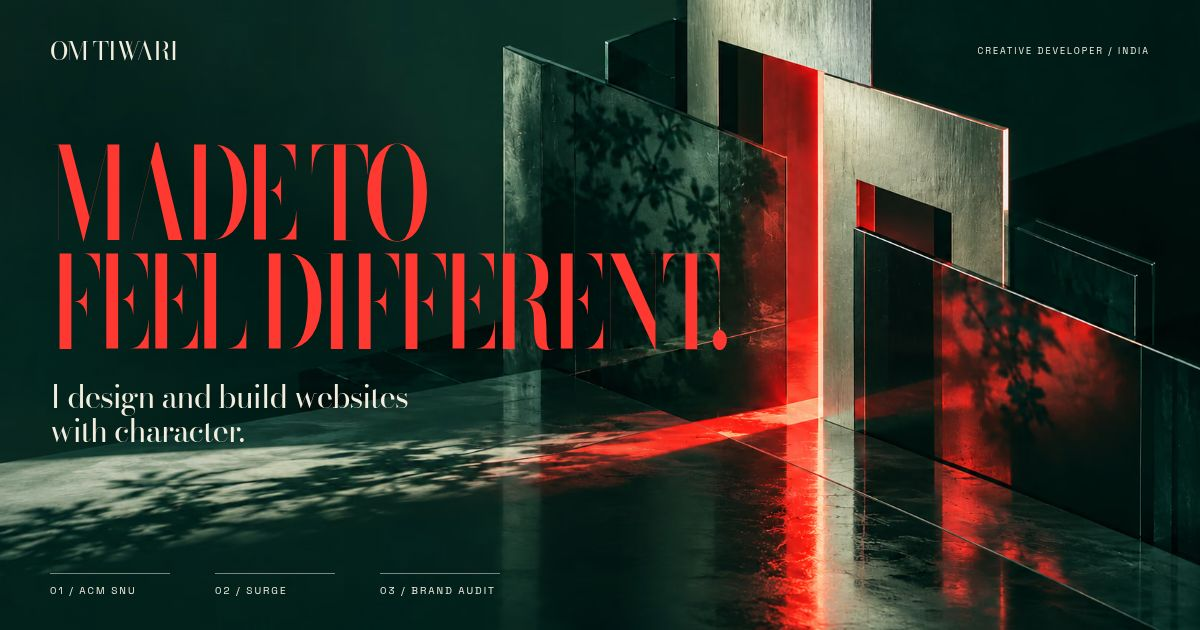
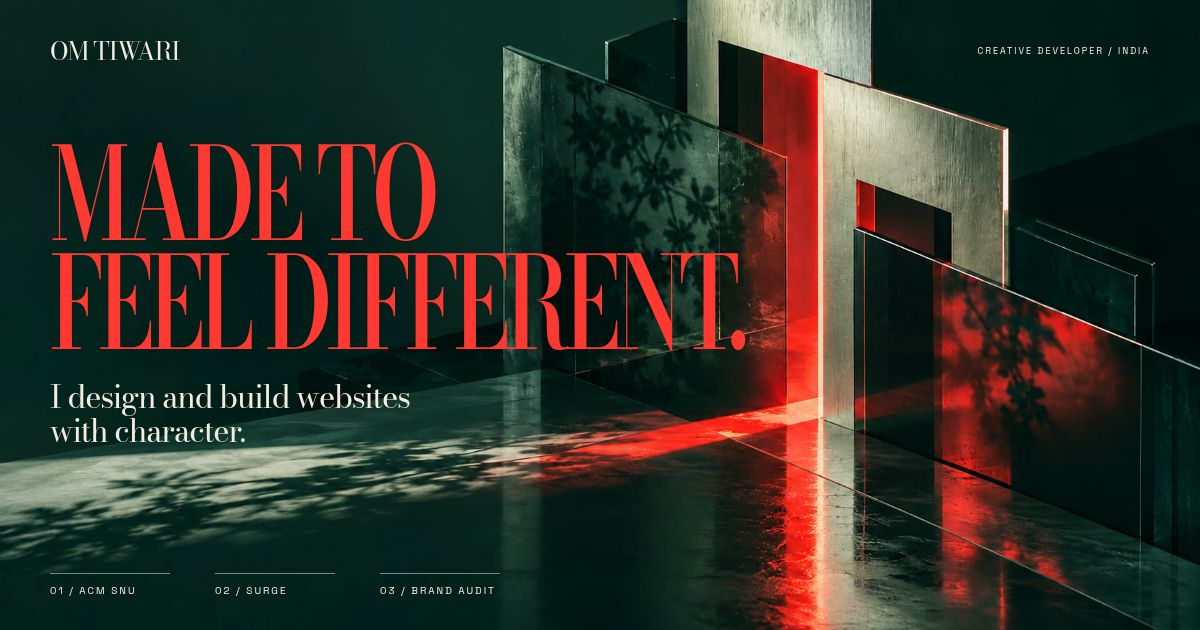
Improve serif legibility and simplify project screenshots

Changed region(s): [[0.0308, 0.2111, 0.6167, 0.573], [0.0617, 0.6032, 0.3392, 0.7238], [0.0617, 0.0603, 0.1542, 0.0905]]

diff --git a/assets/source/green-studio/social-card.html b/assets/source/green-studio/social-card.html
@@ -1,6 +1,6 @@
 <!doctype html>
 <html lang="en"><head><meta charset="utf-8"><meta name="viewport" content="width=device-width, initial-scale=1"><title>Om Tiwari · social card source</title>
 <style>
-@font-face{font-family:Bodoni;src:url('/fonts/bodoni-moda-latin.woff2')}@font-face{font-family:Space;src:url('/fonts/space-grotesk-latin.woff2')}
-*{box-sizing:border-box}html,body{margin:0;width:1200px;height:630px;overflow:hidden}body{color:#f2edde;background:#041b18 url('/media/studio/desktop-1672.avif') center/cover;font-family:Space,Arial,sans-serif}.card{padding:32px 50px;position:relative;height:630px;background:linear-gradient(90deg,#041b1830,transparent 60%)}header{display:flex;align-items:center;justify-content:space-between}.name{font:400 25px Bodoni,Georgia,serif;letter-spacing:-1px}.role{font-size:9px;letter-spacing:2px;text-transform:uppercase}h1{font-family:Bodoni,Georgia,serif;font-weight:600;font-variation-settings:'opsz' 96;font-size:128px;line-height:.85;letter-spacing:-8px;color:#ff3931;text-transform:uppercase;margin:70px 0 22px;width:140%;transform:scaleX(.7);transform-origin:left center}h1 span{display:block}p{font:400 31px/1.1 Bodoni,Georgia,serif;letter-spacing:-1px;margin:0}footer{position:absolute;bottom:33px;left:50px;font-size:10px;letter-spacing:2px;text-transform:uppercase;display:flex;gap:45px}footer span{border-top:1px solid #f2edde80;padding-top:10px;min-width:120px}
+@font-face{font-family:Bodoni;src:url('/fonts/bodoni-moda-latin.woff2');font-weight:400 900}@font-face{font-family:Space;src:url('/fonts/space-grotesk-latin.woff2');font-weight:300 700}
+*{box-sizing:border-box}html,body{margin:0;width:1200px;height:630px;overflow:hidden}body{color:#f2edde;background:#041b18 url('/media/studio/desktop-1672.avif') center/cover;font-family:Space,Arial,sans-serif;font-optical-sizing:none;font-variation-settings:'opsz' 16}.card{padding:32px 50px;position:relative;height:630px;background:linear-gradient(90deg,#041b1830,transparent 60%)}header{display:flex;align-items:center;justify-content:space-between}.name{font:400 25px Bodoni,Georgia,serif;font-optical-sizing:none;font-variation-settings:'opsz' 16;letter-spacing:-1px}.role{font-size:9px;letter-spacing:2px;text-transform:uppercase}h1{font-family:Bodoni,Georgia,serif;font-weight:600;font-optical-sizing:none;font-variation-settings:'opsz' 16;font-size:128px;line-height:.85;letter-spacing:-8px;color:#ff3931;text-transform:uppercase;margin:70px 0 22px;width:140%;transform:scaleX(.7);transform-origin:left center}h1 span{display:block}p{font:400 31px/1.1 Bodoni,Georgia,serif;font-optical-sizing:none;font-variation-settings:'opsz' 16;letter-spacing:-1px;margin:0}footer{position:absolute;bottom:33px;left:50px;font-size:10px;letter-spacing:2px;text-transform:uppercase;display:flex;gap:45px}footer span{border-top:1px solid #f2edde80;padding-top:10px;min-width:120px}
 </style></head><body><div class="card"><header><span class="name">OM TIWARI</span><span class="role">Creative developer / India</span></header><h1><span>Made to</span><span>feel different.</span></h1><p>I design and build websites<br>with character.</p><footer><span>01 / ACM SNU</span><span>02 / SURGE</span><span>03 / BRAND AUDIT</span></footer></div></body></html>

diff --git a/src/components/studio/StudioHero.module.css b/src/components/studio/StudioHero.module.css
@@ -24,14 +24,14 @@
 .headline {
   font-family: "Bodoni Moda", Georgia, serif;
   font-size: clamp(108px, 10.6vw, 235px);
-  font-weight: 600; font-optical-sizing: auto; font-variation-settings: "opsz" 96;
+  font-weight: 600; font-optical-sizing: none; font-variation-settings: "opsz" var(--serif-optical-size);
   letter-spacing: -.065em; line-height: .85; text-transform: uppercase;
   color: #ff3931; width: 142%; transform: scaleX(.7); transform-origin: left center;
 }
 .headline > span { display: block; white-space: nowrap; }
 .headlineLight { position: absolute; inset: 0; color: var(--ivory); pointer-events: none; opacity: var(--light-alpha, 0); clip-path: ellipse(169px 118px at var(--type-x, -300px) var(--type-y, -300px)); }
 .details { margin-top: 25px; }
-.introduction { font: 400 clamp(27px, 2.75vw, 49px)/1.08 "Bodoni Moda", Georgia, serif; letter-spacing: -.045em; max-width: 660px; }
+.introduction { font-family: "Bodoni Moda", Georgia, serif; font-weight: 400; font-size: clamp(27px, 2.75vw, 49px); line-height: 1.08; font-optical-sizing: none; font-variation-settings: "opsz" var(--serif-optical-size); letter-spacing: -.045em; max-width: 660px; }
 .descriptor { text-transform: uppercase; font-size: 11px; letter-spacing: .23em; margin-top: 25px; }
 .cta { display: inline-flex; align-items: center; justify-content: space-between; gap: 50px; min-height: 48px; padding: 12px 20px; border: 1px solid #f2eddea6; margin-top: 25px; font-size: 10px; letter-spacing: .2em; text-transform: uppercase; background: #041b1880; backdrop-filter: blur(4px); transition: color .3s, background .3s; }
 .cta:hover { color: var(--deep); background: var(--ivory); }

diff --git a/src/app/globals.css b/src/app/globals.css
@@ -12,11 +12,13 @@
   --petrol: #082a25; --deep: #041b18; --sage: #a4bfb0; --scarlet: #eb302b; --ivory: #f2edde; --soft-sage: #d8e2d8;
   --background: var(--deep); --surface: var(--petrol); --foreground: var(--ivory);
   --muted: #b7c7bc; --accent: var(--scarlet); --accent-soft: #ff7971;
+  --serif-optical-size: 16;
   --rule: #f2edde35; --gutter: clamp(22px, 4.2vw, 90px); color-scheme: dark;
 }
 * { box-sizing: border-box; }
 html { scroll-behavior: smooth; scroll-padding-top: 30px; }
-body { margin: 0; background: var(--background); color: var(--foreground); font-family: Space Grotesk, Arial, sans-serif; font-size: 16px; line-height: 1.6; -webkit-font-smoothing: antialiased; }
+/* Keep Bodoni's fine strokes legible at every size; its weight axis remains live. */
+body { margin: 0; background: var(--background); color: var(--foreground); font-family: Space Grotesk, Arial, sans-serif; font-size: 16px; line-height: 1.6; font-optical-sizing: none; font-variation-settings: "opsz" var(--serif-optical-size); -webkit-font-smoothing: antialiased; }
 ::selection { background: var(--ivory); color: var(--deep); }
 a { color: inherit; text-decoration: none; }
 a:hover { color: var(--accent-soft); }

diff --git a/src/components/work/Work.module.css b/src/components/work/Work.module.css
@@ -101,35 +101,6 @@
 .media.adobe > img {
   border: none;
 }
-.browserBar {
-  display: flex;
-  align-items: center;
-  justify-content: space-between;
-  background: #f4f2ee;
-  color: #545151;
-  border: 1px solid #0002;
-  padding: 8px 12px;
-  gap: 15px;
-  font-size: 9px;
-  letter-spacing: 0.025em;
-}
-.browserBar > span:first-child {
-  display: flex;
-  gap: 4px;
-}
-.browserBar i {
-  display: block;
-  width: 5px;
-  height: 5px;
-  border-radius: 50%;
-  background: #b7b3af;
-}
-.browserBar > span:last-child {
-  color: #82807d;
-}
-.adobe .browserBar {
-  display: none;
-}
 .mediaCaption {
   display: flex;
   justify-content: space-between;
@@ -402,10 +373,6 @@
     aspect-ratio: var(--media-aspect, 16/10);
     object-fit: contain;
     object-position: center top;
-  }
-  .browserBar {
-    font-size: 7px;
-    padding: 7px;
   }
   .mediaCaption {
     font-size: 7px;

diff --git a/src/components/work/ProjectMedia.tsx b/src/components/work/ProjectMedia.tsx
@@ -26,19 +26,6 @@ export function ProjectMedia({
           } as CSSProperties
         }
       >
-        <div className={styles.browserBar} aria-hidden="true">
-          <span>
-            <i />
-            <i />
-            <i />
-          </span>
-          <span>
-            {project.liveUrl
-              ? new URL(project.liveUrl).host
-              : "audit architecture / process study"}
-          </span>
-          <span>↗</span>
-        </div>
         <Image
           src={project.poster.src}
           alt={project.poster.alt}

diff --git a/src/components/sections/Sections.module.css b/src/components/sections/Sections.module.css
@@ -116,7 +116,7 @@
   line-height: 1;
   padding: 74px 0 65px;
   text-align: center;
-  font-variation-settings: normal;
+  font-variation-settings: "opsz" var(--serif-optical-size);
 }
 .pulseType span {
   color: #dc472d;

diff --git a/docs/VALIDATION.md b/docs/VALIDATION.md
@@ -86,3 +86,15 @@ The previous revision emitted 478.5 KiB of JavaScript in total. Removing the 3D 
 - No slow-network lab run, rendering frame-time benchmark, hidden-tab timing benchmark or field-performance session was completed. The hero's settling loop is bounded and stops offscreen/hidden or when effects are reduced by code design.
 - Real email delivery remains intentionally unconfigured. The shipped contact flow prepares a draft.
 - Real photography, exact Adobe award evidence and a publishing origin remain owner inputs. Their current fallbacks are complete; no hosting or remote source upload was performed.
+
+## 28 October 2026 refinements
+
+- Kept the same Bodoni Moda font and weights, with a shared optical size of 16 and automatic optical sizing disabled. This restores fine stems and crossbars in the hero, supporting copy, section titles, playground and case studies. Hero copy uses font longhands so production CSS optimization cannot reset its optical settings through a shorthand.
+- Removed the decorative browser bar from shared project media, including its unused styles. Supplied screenshot pixels, aspect ratios, captions and green framing remain intact.
+- Retained the palette, layout dimensions, cursor reveal, parallax and motion controls. The social preview was rendered again at 1200 × 630 using the same typography setting; the temporary rendering page was removed.
+- Production export and TypeScript pass. All six existing focused checks and `git diff --check` pass.
+- Reviewed the production export in Codex in-app Chromium at widths 360, 390, 768, 1024, 1440 and 1920: no horizontal overflow or clipped headline. At 390px, ACM, Surge, Adobe, contact, privacy and the designed 404 all had matching content/scroll widths of 375px.
+- Computed styles confirmed `font-optical-sizing: none` and `"opsz" 16` for both cursor-reveal headline layers, supporting copy and serif headings on inner pages. The playground slider still changed weight from 600 to 601. The Reduce effects control still switched to reduced motion and automatic scrolling; Enable effects restored full motion.
+- Confirmed project figures begin directly with the screenshot, with no browser strip on the homepage or case studies. Updated evidence: `screenshots/refined-type-hero-desktop.jpg`, `screenshots/refined-type-hero-mobile.jpg`, `screenshots/refined-type-work-desktop.jpg` and `screenshots/refined-acm-media-desktop.jpg`.
+
+The browser/device limits above still apply. No dependency, font-file, scene-artwork, hosting or remote-source changes were made in this refinement. The asset byte counts above describe the original build; the updated social PNG is 1,080,113 bytes.

diff --git a/docs/CREDITS.md b/docs/CREDITS.md
@@ -2,7 +2,7 @@
 
 - Portfolio design and implementation: original work for Om Tiwari, developed from the approved green Living poster study in `design/green-studio-reference.png`.
 - Architectural scene: generated with the built-in ImageGen tool, first as a text-free edit of that study and then as a portrait recomposition. Lossless masters, exact prompts and provenance are in `assets/source/green-studio/`. It is decorative artwork, not real event or client imagery.
-- Bodoni Moda: [Google Fonts distribution](https://github.com/google/fonts/tree/main/ofl/bodonimoda), SIL Open Font License. The upright Latin variable font is self-hosted with `public/fonts/Bodoni-Moda-OFL.txt`. High optical size and horizontal typesetting adapt its real glyphs to the approved display composition; generated letterforms are not an exact font specification.
+- Bodoni Moda: [Google Fonts distribution](https://github.com/google/fonts/tree/main/ofl/bodonimoda), SIL Open Font License. The upright Latin variable font is self-hosted with `public/fonts/Bodoni-Moda-OFL.txt`. A shared optical size of 16 keeps fine strokes legible throughout the site; the hero retains its horizontal typesetting and the playground retains its variable weight. Generated letterforms are not an exact font specification.
 - Space Grotesk: Google Fonts distribution, SIL Open Font License. See `public/fonts/Space-Grotesk-OFL.txt`.
 - ACM and Surge homepage and supporting screenshots were supplied by Om; mobile images were captured from the real public sites. Artwork inside those websites remains with its respective owners. This portfolio does not redistribute their source or operational data.
 - Audit architecture was checked against `/home/dionysus/Projects/Brand-AI-Readiness-Audit-round5/README.md`. Its original explanatory SVG has been recoloured to match the portfolio and remains labelled as a diagram.

diff --git a/assets/source/green-studio/README.md b/assets/source/green-studio/README.md
@@ -17,3 +17,5 @@ The browser selects one base image through a responsive picture. The pointer-lig
 The originals are lossless masters outside `public/`. Only compressed delivery assets reach the website. The full approved mockup is a design reference; no interface text is baked into either master.
 
 To recreate the social preview, copy `social-card.html` temporarily into the local export, view it at 1200 × 630 with fonts loaded, capture that page, and convert the capture to `public/social-preview.png`. Remove the temporary route and rebuild. The current card was rendered in the local Chromium preview; its screenshot was exactly 1200 × 630.
+
+28 October 2026: the social card was rendered again with the site's shared Bodoni optical size of 16, making the fine strokes visible while retaining the composition, colors and original artwork. The font declarations include their variable weight ranges.
